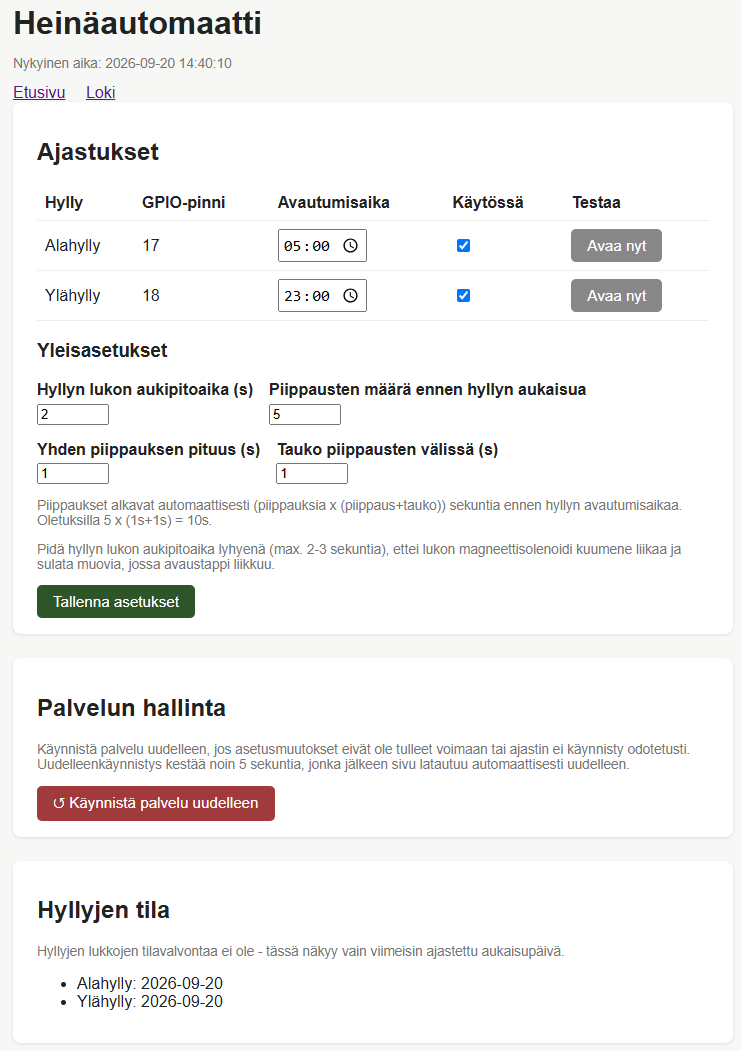
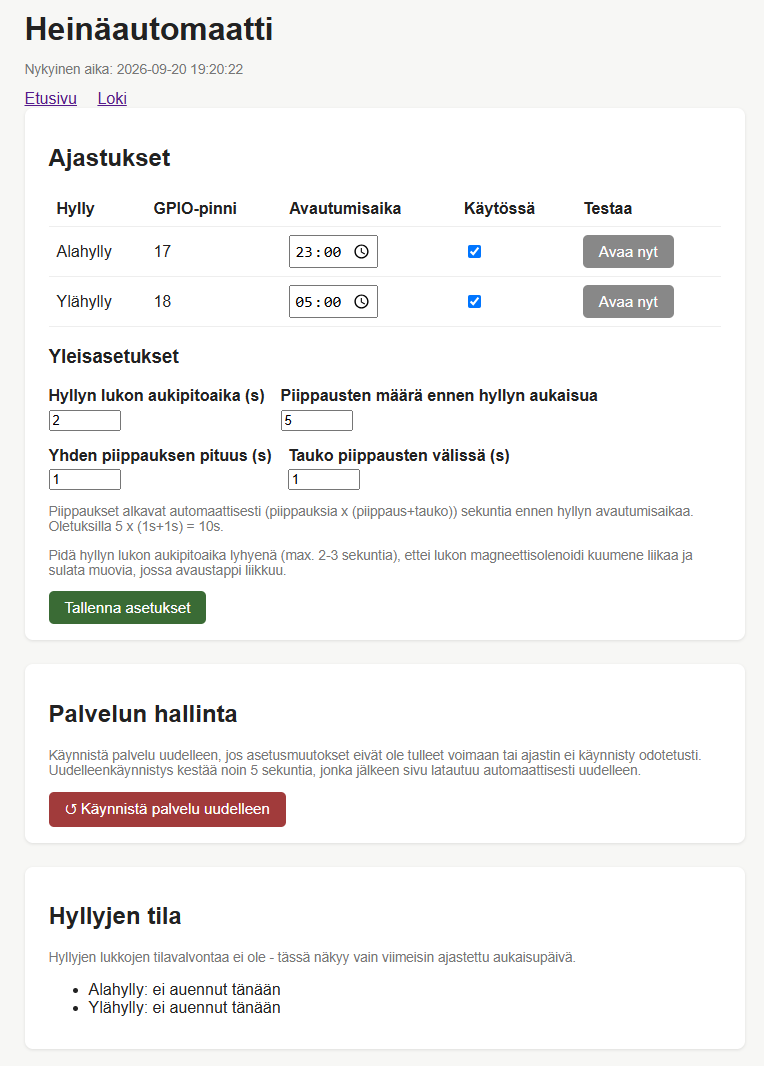
Päivitetty kuvia ja täydennetty linkeillä

diff --git a/README.md b/README.md
@@ -16,14 +16,16 @@ Ohjaa jopa kahdeksan hyllyn sähkölukkoja itsenäisesti, jokaiselle hyllylle om
 - Yhteys ethernet-kaapelilla suoraan tietokoneesta tai WiFin kautta
 - Kevyt ja luotettava — pyörii Raspberry Pi 3B:llä
 
+Kuva hallinnasta:
 ![Web-UI](kuvat/web-ui-8hylly.png)
 
+---
 
 ## Oma toteutukseni
 
 ### Ohjauskaappi
 
-Omassa toteutuksessani yksi rele ohjaa 8 heinäkaapin alahyllyjä ja toinen rele ylähyllyjä. Automaateissa on 12V sähkölukko (Amazonista tilattu) / per hylly. Sähköt lukoille tulevat 12V moottoripyörän akusta, jota lataa jatkuvasti pieni ylläpitolaturi (CTEC). Myös raspberry pi 3B+ saa sähköt samasta akusta auton 12V --> 5V sovittimen kautta.
+Omassa toteutuksessani yksi rele ohjaa 8 heinäkaapin alahyllyjä ja toinen rele samojen kaappien ylähyllyjä. Automaateissa on 12V sähkölukko (Amazonista tilattu) / per hylly. Sähköt lukoille tulevat 12V moottoripyörän akusta, jota lataa jatkuvasti pieni ylläpitolaturi (CTEC). Myös Raspberry Pi 3B+ saa sähköt samasta akusta auton 12V --> 5V sovittimen kautta.
 Jokaisessa 12V lähdössä on ensin sopiva 12V sulake ja vasta sen jälkeen sähkö viedään lukoille tai raspberrylle.
 
 Koko laitteisto on kasattu vanhaan peltiseen lääkekaappiin, jonka saa lukittua.
@@ -37,14 +39,14 @@ Toteutuksen etuja:
 
 - Ei vaadi luvallisia (220 vaihtovirta) sähkötöitä (paitsi ylläpitolaturille pitäisi löytyä yksi pistorasia)
 - Järjestelmä on täysin immuuni jopa muutaman päivän sähkökatkoille
-- kaapelointi on suhteellisen kevyttä heinäkaapeille. Tarviaan vain yksi -johto ja +johtoja yhtä monta kuin kaapissa on lukkoja (2-hyllyn tapauksessa riittää siten 3-johdinta).
-- kaapeleiden vedon voi tehdä itse (12V heikkovirtatoteutus) ja kaappeja voi ketjuttaa helposti.
+- Kaapelointi on suhteellisen kevyttä heinäkaapeille. Tarviaan vain yksi -johto ja +johtoja yhtä monta kuin kaapissa on lukkoja (2-hyllyn tapauksessa riittää siten 3-johdinta).
+- Kaapeleiden vedon voi tehdä itse (12V heikkovirtatoteutus) ja kaappeja voi ketjuttaa helposti.
 
-Periaatteessa toteutuksen voisi tehdä myös ilman sähköliittymää, mutta silloin akkua pitää ladata jotenkin silloin tällöin. 
+Periaatteessa toteutuksen voisi tehdä myös ilman sähköliittymää, mutta silti akkua pitää ladata jotenkin silloin tällöin. 
 
 ### Heinäautomaatit
 
-Automaattien runko on tehty tavallisesta havuvanerista (joka on edullista). Ovet ja suojaukset kattopellistä. Automaattien alle on hitsattu kaiteet, jotka suojaavat sekä automaattia että hevosta. Aluksi Kaiteita tehtiin tavallisesta raudasta ja ne maalattiin, mutta osa hevosista kaluaa rautaakin, jolloin kaide alkaa ruostumaan. Ruostuneiden tilalle on vähitellen tehty uusia kaiteita RST-putkesta.
+Automaattien runko on tehty tavallisesta havuvanerista (joka on edullista). Ovet ja suojaukset kattopellistä. Automaattien alle on hitsattu kaiteet, jotka suojaavat sekä automaattia että hevosta. Aluksi kaiteita tehtiin tavallisesta raudasta ja ne maalattiin, mutta osa hevosista kaluaa rautaakin, jolloin kaide alkaa ruostumaan. Ruostuneiden tilalle on vähitellen tehty uusia kaiteita RST-putkesta.
 
 ![Heinäkaappi kiinni](kuvat/heinakaappi-kiinni.jpg)
 
@@ -67,7 +69,7 @@ Kaapeissa on sähkölukko / hylly, jotka päästävät heinät putoamaan. Yöhei
 | 12V sähkölukot | Yksi per hylly |
 | Kaapelia releiltä sähkölukoille | Yksi - johdin ja yksi + johdin per hyllytaso |
 | Sähkörasioita | Hyllyjen johdotuksen haaroituspisteet |
-| 12V akku + ylläpitolaturi | Esim. 7Ah lyijyakku ja automaattilaturi |
+| 12V akku + ylläpitolaturi | Esim. 9 Ah lyijyakku |
 | 12V → 5V USB-sovitin | Auton tyyppi toimii hyvin |
 | Ethernet-kaapeli | Tietokone suoraan Raspberry Pi:hin |
 
@@ -76,9 +78,22 @@ Kaapeissa on sähkölukko / hylly, jotka päästävät heinät putoamaan. Yöhei
 > jonka saa lukittua ja josta eth-kaapeli kulkee ulos hallintaa varten.
 > Raspberry Pi ja relekortti on syytä koteloida jotenkin.
 
+### Linkkejä mahdollisiin hankintakohteisiin
 
+[Raspberry Pi 3B+, Amazon.de](https://www.amazon.de/-/en/Raspberry-Pi-Model-Board-Plus/dp/B0BNJPL4MW/)
+[Raspberry 32 GB SD-kortti, Amazon.de(https://www.amazon.de/dp/B0CYSMZ8Z6)
+[Relekortti (2 relettä) Amazonissa](https://www.amazon.de/-/en/Yizhet-Channel-Relay-Module-Optocoupler/dp/B0BRKB6J2B)
+[Magneettilukkoja hyllyihin, Amazon.de](https://www.amazon.de/dp/B07KWMH16C)
+[Aktiivi piezo summeri, Amazon.de](https://www.amazon.de/-/en/Electronic-Warning-Permanent-Transmitter-Continuous/dp/B0FWXLP71N)
+[Akku Motonetistä](https://www.motonet.fi/tuote/fulbat-agm-12-v-9-ah?product=90-00698)
+[Ylläpitolaturi Motonetistä](https://www.motonet.fi/tuote/ctek-yllapitolaturi-mxs-38-12-v-38-a?product=45-5588)
+[USB-sovitin Motonetistä](https://www.motonet.fi/tuote/four-vedenpitava-usb-pistorasia-12-24-v?product=65-01122)
+[Sulakerasioita](https://www.motonet.fi/tuote/laattasulakerasia-gm-maxi-roiskevesisuojattu?product=48-1778)
+
+**HUOM.** Listaa ei ylläpidetä eikä se ole täydellinen kaikkia hankitatarpeita ajatellen...
 
 ---
+
 
 ## Kytkennät
 
@@ -107,7 +122,7 @@ Raspberry Pi -projekteihin:
 - `GPIO HIGH` = rele lepotilassa → sähkölukko kiinni
 
 Relekortit ottavat ohjauksensa Raspberry Pi:n GPIO-pinnistä (3.3V/5V).
-Sähkölukot kytketään releen kautta 12V akusta.
+Sähkölukot kytketään releen kautta 12V akusta. Muista sulakesuojaus!
 
 ### Piezo-summeri
 
@@ -145,6 +160,8 @@ Piippausten määrää, kestoa ja releen vetoaikaa voi muuttaa web-hallintasivul
 ## Ohjelmiston asennus
 
 ### 1. Valmistele Raspberry Pi
+
+[Asennusopas RPI-sivustolla](https://www.raspberrypi.com/documentation/computers/getting-started.html)
 
 Asenna Raspberry Pi OS (Lite riittää, Desktop toimii myös).
 Varmista että SSH on käytössä tai kytke näppäimistö ja näyttö asennuksen ajaksi.
@@ -420,4 +437,4 @@ heina/
 ## Lisenssi
 
 MIT License — vapaa käyttää, muokata ja jakaa. Katso [LICENSE](LICENSE).
-#heinat
+
